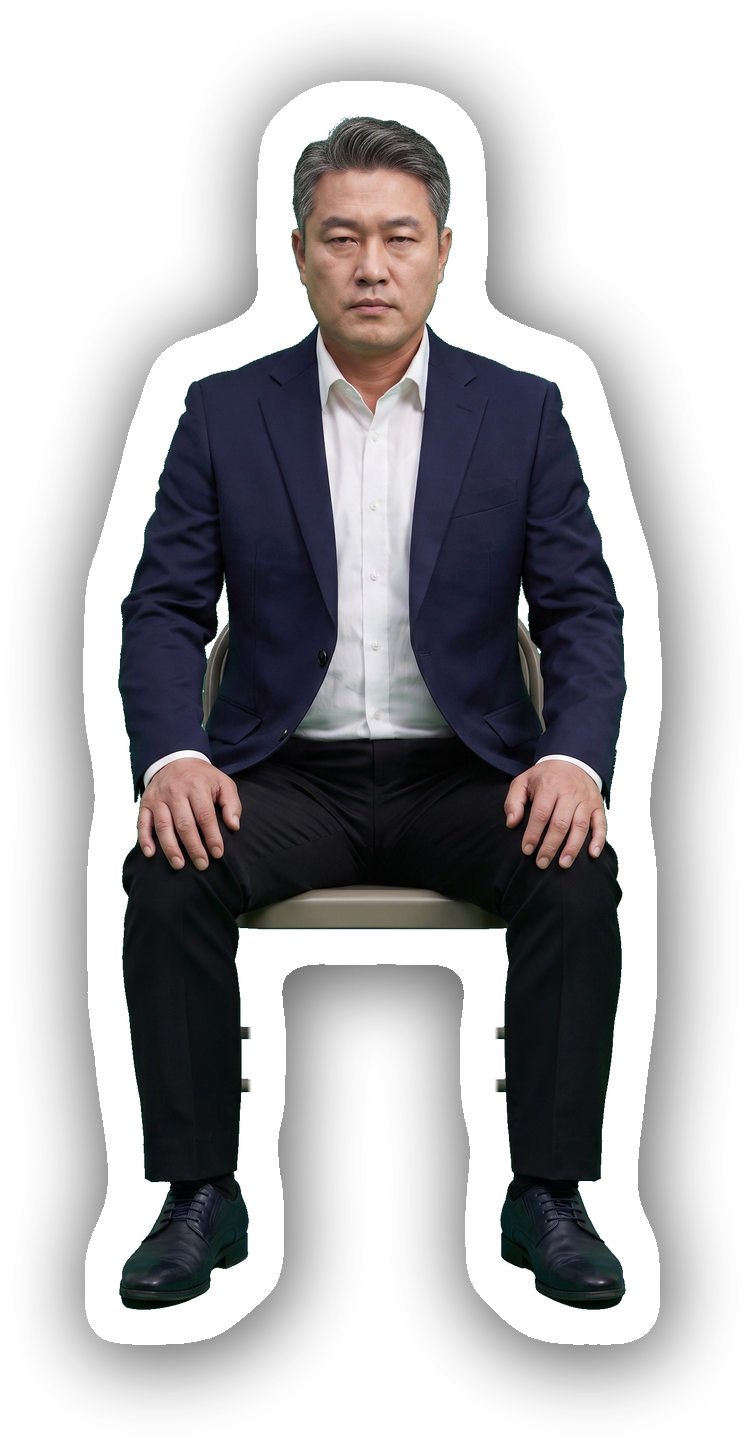
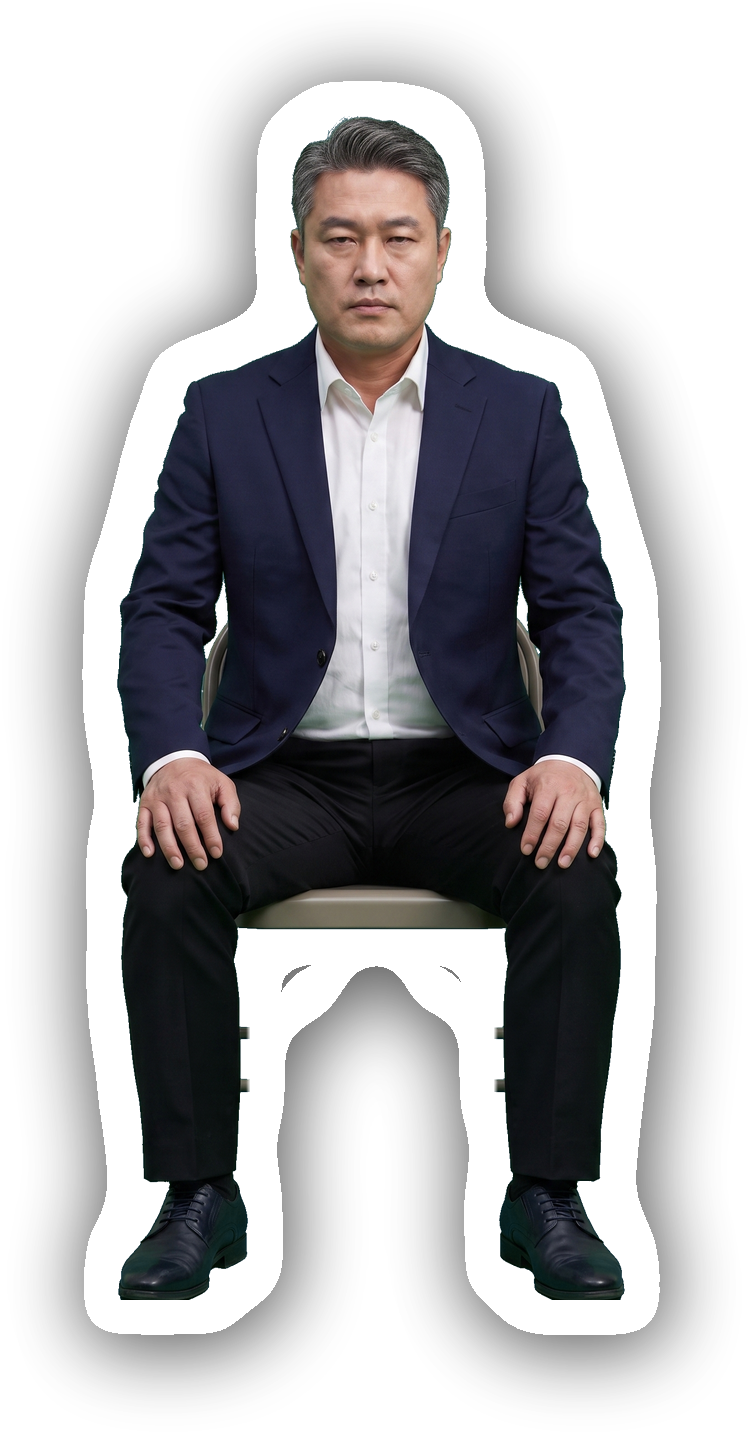
컷아웃 가장자리의 검은 칸 선을 벗기고, 잘린 머리를 되살린다 (src/cleanline.py)
앞서 blackbar.py 는 **아래쪽 가로 띠**만 처리했다. 좌·우 세로 선은 그대로 남아
판사 왼쪽·김성일 아래에 검은 줄이 보였다. API 호출 0회로 전부 해결했다.

옷의 검정과 어떻게 갈랐나 — 실측
    칸 선   (0, 0, 0)        완전한 검정
    남색 양복 (30, 31, 49)
    검은 법복 (39, 35, 42)
  → 가장 밝은 채널이 22 미만인 것만 '선' 으로 본다. 옷은 걸리지 않는다.

⚠ 두 번 헛짚었다
   ① '가장자리에서 검정을 한 겹씩 벗기기' → 검은 곱슬머리가 함께 벗겨져
      30겹까지 파고들었다. 머리카락을 먹는다.
   ② 그래서 '길게 이어진 줄만' 으로 조였더니 **판사 왼쪽 선을 놓쳤다** —
      실측하니 x=2~3 열이 94% 완전검정인데 길이는 그림 높이의 13%뿐이었다
      (얼굴 컷이라 법복이 아래 일부에만 있다).
   지금은 바깥 12픽셀까지만 보고, 그 줄의 불투명한 점 중 60% 이상이
   완전한 검정이면 지운다. 12픽셀은 설령 머리카락을 깎아도 화면에서 안 보인다.

머리 잘림도 같이 고쳤다
   김성일 얼굴 컷 3장이 정수리가 평평하게 잘려 있었다.
   새로 만들지 않고 **같은 인물의 상반신에서 얼굴만 오려** 대신했다.

검은 선 15장 · 머리 되살림 3장.
검증: 컷 114개 화면 이탈 0 · 머리 위·좌우 잘림 226건 검사 0건 · 34장 육안 확인.

diff --git a/src/cleanline.py b/src/cleanline.py
@@ -1,0 +1,214 @@
+#!/usr/bin/env python3
+"""컷아웃 가장자리에 남은 **검은 칸 선**을 벗겨낸다. 그리고 잘린 머리를 되살린다.
+
+    python3 src/cleanline.py --dry     무엇을 할지만 본다
+    python3 src/cleanline.py           실제로 고쳐 저장한다
+    python3 src/cleanline.py --only JUDGE,M50A
+
+무엇이 문제였나
+    인물 시트의 칸 경계선(검은 줄)이 인물과 함께 딸려 나왔다. 흰 테두리가 그 위에
+    둘러지면서 좌·우·아래에 검은 줄이 박힌 채로 남았다.
+    앞서 `blackbar.py` 는 **아래쪽 가로 띠**만 처리했다 — 좌우 세로 선은 그대로였다.
+
+옷의 검정과 어떻게 구분하나 — 실측
+    칸 선  : (0, 0, 0)          완전한 검정
+    남색 양복: (30, 31, 49)
+    검은 법복: (39, 35, 42)
+    그래서 **가장 밝은 채널이 22 미만**인 것만 선으로 본다. 옷은 절대 걸리지 않는다.
+
+어떻게 벗기나
+    가장자리에서 한 겹씩 안으로 들어가며, 그 겹이 완전한 검정이면 지운다.
+    검정이 아닌 겹(피부·셔츠·머리카락)을 만나면 즉시 멈춘다.
+    그래서 선의 두께만큼만 정확히 벗겨진다.
+
+머리 잘림
+    시트를 자를 때 얼굴 컷의 정수리가 평평하게 잘린 것이 있다. 실루엣 맨 윗줄이
+    넓으면(둥근 머리가 아니라 일자로 잘렸으면) 잘린 것이다.
+    같은 인물의 **상반신 그림에서 얼굴만 오려** 대신 쓴다 — 새로 만들지 않는다.
+"""
+import argparse
+import sys
+from pathlib import Path
+
+from PIL import Image, ImageChops, ImageDraw, ImageFilter
+
+sys.path.insert(0, str(Path(__file__).resolve().parent))
+import assets_gen as A  # noqa: E402
+
+ROOT = Path(__file__).resolve().parent.parent
+CHAR = ROOT / "assets" / "char"
+
+PURE = 22        # 가장 밝은 채널이 이 값 미만이면 '칸 선' (실측: 옷은 30~49)
+MAX_PEEL = 12    # 바깥에서 이만큼까지만 본다. 선은 몇 픽셀이고, 여기까지는
+                 # 설령 머리카락을 조금 깎아도 화면에서 보이지 않는다.
+BLACK_LINE = 0.60  # 그 줄의 불투명한 점 중 완전한 검정이 이 비율 이상이면 선이다
+FLAT_TOP = 0.34  # 맨 윗줄 폭이 최대 폭의 이 비율을 넘으면 머리가 잘린 것
+
+
+def strip_outline(sp, white_at=238):
+    """흰 스티커 테두리를 벗긴다 — 바깥에서 흰색을 타고 들어가며 지운다."""
+    pad = 2
+    W, H = sp.width + pad * 2, sp.height + pad * 2
+    big = Image.new("RGBA", (W, H), (0, 0, 0, 0))
+    big.paste(sp, (pad, pad))
+    r, g, b = big.convert("RGB").split()
+    a = big.getchannel("A")
+    near_white = ImageChops.multiply(
+        ImageChops.multiply(r.point(lambda v: 255 if v >= white_at else 0),
+                            g.point(lambda v: 255 if v >= white_at else 0)),
+        b.point(lambda v: 255 if v >= white_at else 0))
+    outside = ImageChops.lighter(a.point(lambda v: 255 if v < 128 else 0), near_white)
+    ImageDraw.floodfill(outside, (0, 0), 90, thresh=0)
+    ring = outside.point(lambda v: 255 if v == 90 else 0)
+    keep = ImageChops.subtract(a, ring)
+    out = big.copy()
+    out.putalpha(keep)
+    bb = keep.point(lambda v: 255 if v > 40 else 0).getbbox()
+    return out.crop(bb) if bb else out
+
+
+def peel_black(sp):
+    """가장자리에 **직선으로 늘어선** 검은 줄만 벗긴다. → (바뀐 그림, 벗긴 줄 수)
+
+    ⚠ 처음에는 '가장자리에서 완전한 검정을 한 겹씩 벗기기' 로 했는데,
+       검은 곱슬머리가 함께 벗겨져 30겹까지 파고들었다(실측).
+       칸 선은 **바깥 끝에서 곧게 뻗은 한 줄**이고 머리카락은 들쭉날쭉하다.
+       그래서 바깥 줄(열·행) 단위로만 보고, 그 줄의 불투명한 점 대부분이
+       완전한 검정이면서 길게 이어질 때만 지운다."""
+    r, g, b = sp.convert("RGB").split()
+    pure = ImageChops.multiply(
+        ImageChops.multiply(r.point(lambda v: 255 if v < PURE else 0),
+                            g.point(lambda v: 255 if v < PURE else 0)),
+        b.point(lambda v: 255 if v < PURE else 0))
+    a = sp.getchannel("A").point(lambda v: 255 if v > 128 else 0)
+    W, H = sp.size
+    ap, pp = a.load(), pure.load()
+
+    def line(kind, i):
+        """그 줄의 (불투명 점 수, 그중 완전한 검정 수, 이어진 길이)"""
+        rng = range(H) if kind in ("L", "R") else range(W)
+        on = [j for j in rng if (ap[i, j] if kind in ("L", "R") else ap[j, i])]
+        if not on:
+            return 0, 0, 0
+        blk = sum(1 for j in on
+                  if (pp[i, j] if kind in ("L", "R") else pp[j, i]))
+        return len(on), blk, on[-1] - on[0] + 1
+
+    # ⚠ '길게 이어져야 한다' 는 조건을 넣었다가 판사 왼쪽 선을 놓쳤다.
+    #    실측: x=2~3 열이 94% 완전검정인데 길이는 그림 높이의 13%뿐이었다
+    #    (얼굴 컷이라 법복이 아래 일부에만 있기 때문). 길이 조건을 뺀다.
+    #    대신 바깥 12픽셀까지만 본다 — 그 안쪽은 사람이다.
+    cut = {"L": 0, "R": 0, "T": 0, "B": 0}
+    for kind, idx in (("L", range(W)), ("R", range(W - 1, -1, -1)),
+                      ("T", range(H)), ("B", range(H - 1, -1, -1))):
+        deepest = 0
+        for k, i in enumerate(idx):
+            if k >= MAX_PEEL:
+                break
+            n_on, n_blk, _ = line(kind, i)
+            if n_on == 0:
+                continue
+            if n_blk >= n_on * BLACK_LINE:
+                deepest = k + 1          # 여기까지(포함) 지운다
+        cut[kind] = deepest
+
+    total = sum(1 for v in cut.values() if v)
+    if not any(cut.values()):
+        return sp, 0
+    keep = Image.new("L", sp.size, 0)
+    ImageDraw.Draw(keep).rectangle(
+        [cut["L"], cut["T"], W - 1 - cut["R"], H - 1 - cut["B"]], fill=255)
+    out = sp.copy()
+    out.putalpha(ImageChops.multiply(sp.getchannel("A"), keep))
+    trimmed = A.trim_alpha(out)
+    return (trimmed if trimmed is not None else out), sum(cut.values())
+
+
+def head_cut(sp):
+    """정수리가 평평하게 잘렸는가. (실루엣 맨 윗줄이 넓으면 잘린 것)"""
+    a = sp.getchannel("A").point(lambda v: 255 if v > 150 else 0)
+    W, H = a.size
+    px = a.load()
+    step = max(1, W // 200)
+    widths = []
+    for y in range(H):
+        xs = [x for x in range(0, W, step) if px[x, y]]
+        widths.append((max(xs) - min(xs) + step) if xs else 0)
+    solid = [w for w in widths if w]
+    if not solid:
+        return False
+    first = next(w for w in widths if w)
+    return first > max(solid) * FLAT_TOP
+
+
+def face_from_bust(code, mood):
+    """같은 인물의 상반신에서 얼굴만 오려 온다. 없으면 None."""
+    from render import POSE_ALT
+    for m in (mood,) + tuple(POSE_ALT.get(mood, ())):
+        p = CHAR / code / f"bust_{m}.png"
+        if not p.exists():
+            continue
+        plain = strip_outline(Image.open(p).convert("RGBA"))
+        plain, _ = peel_black(plain)
+        a = plain.getchannel("A").point(lambda v: 255 if v > 150 else 0)
+        W, H = a.size
+        px = a.load()
+        step = max(1, W // 160)
+        widths = []
+        for y in range(H):
+            xs = [x for x in range(0, W, step) if px[x, y]]
+            widths.append((max(xs) - min(xs) + step) if xs else 0)
+        solid = [y for y, w in enumerate(widths) if w > W * 0.04]
+        if not solid:
+            continue
+        top, bot = solid[0], solid[-1]
+        n = max(4, int((bot - top) * 0.16))
+        probe = [w for w in widths[top:top + n] if w]
+        head_w = sorted(probe)[len(probe) // 2] if probe else W
+        sh = next((y for y in range(top + n, bot + 1) if widths[y] > head_w * 1.55), None)
+        cut_at = int(min(H, (sh or int(H * 0.55)) + ((sh or int(H * 0.55)) - top) * 0.22))
+        face = A.trim_alpha(plain.crop((0, 0, W, cut_at)))
+        if face is not None:
+            return face, m
+    return None, None
+
+
+def main():
+    ap = argparse.ArgumentParser()
+    ap.add_argument("--dry", action="store_true")
+    ap.add_argument("--only", default="")
+    args = ap.parse_args()
+
+    files = sorted(CHAR.glob("*/*.png"))
+    if args.only:
+        want = {s.strip() for s in args.only.split(",") if s.strip()}
+        files = [f for f in files if f.parent.name in want]
+
+    n_peel = n_head = 0
+    for f in files:
+        code, pose = f.parent.name, f.stem
+        plain = strip_outline(Image.open(f).convert("RGBA"))
+        plain, peeled = peel_black(plain)
+
+        rebuilt = None
+        if pose.startswith("face_") and head_cut(plain):
+            got, used = face_from_bust(code, pose.split("_", 1)[1])
+            if got is not None:
+                rebuilt = got
+                print(f"  {code}/{pose:14} 머리 잘림 → bust_{used} 에서 얼굴을 오려 대신함")
+                n_head += 1
+        if peeled:
+            print(f"  {code}/{pose:14} 검은 선 {peeled}겹 벗김")
+            n_peel += 1
+        if not peeled and rebuilt is None:
+            continue
+        if not args.dry:
+            A.white_outline(rebuilt if rebuilt is not None else plain).save(f)
+
+    print(f"\n검은 선 {n_peel}장 · 머리 되살림 {n_head}장 (전체 {len(files)}장)"
+          + ("   [--dry — 저장하지 않았다]" if args.dry else ""))
+    return 0
+
+
+if __name__ == "__main__":
+    raise SystemExit(main())
